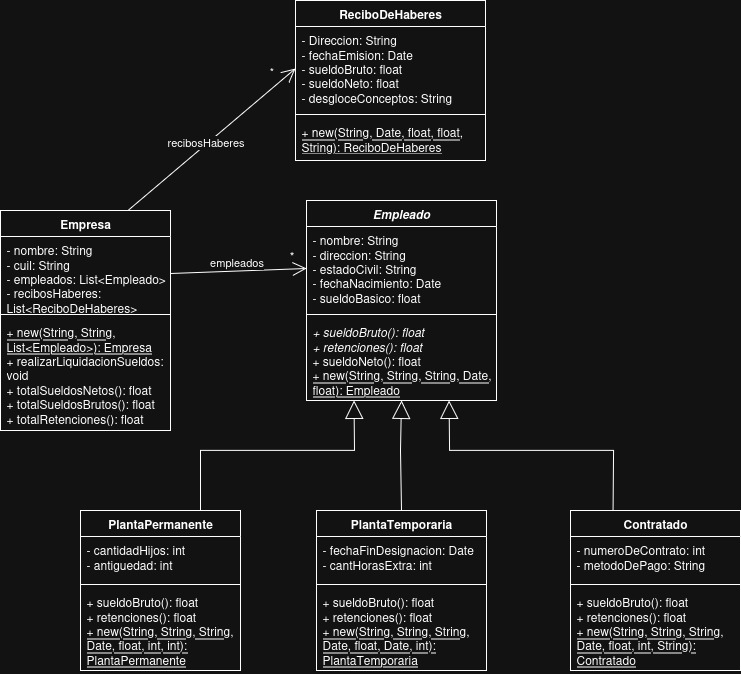
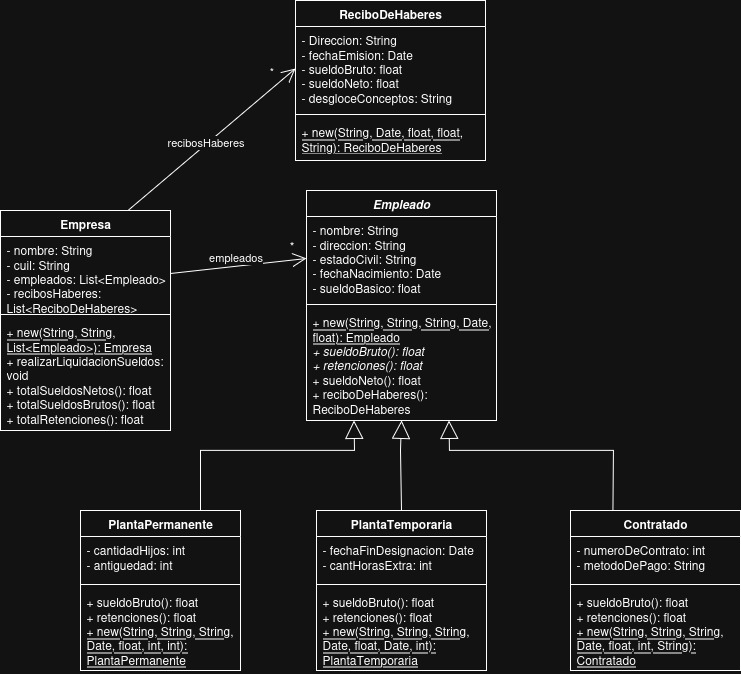
UMLs actualizados y avance en implementación TP 2

Changed region(s): [[0.2483, 0.2804, 0.6518, 0.6543]]

diff --git a/tp2-UML/implementacion-en-Java/src/empleado/Empleado.java b/tp2-UML/implementacion-en-Java/src/empleado/Empleado.java
@@ -1,5 +1,32 @@
 package empleado;
 
-public class Empleado {
+import java.util.Date;
+import empresa.ReciboDeHaberes;
+
+abstract public class Empleado {
+	private String nombre;
+	private String direccion;
+	private String estadoCivil;
+	private Date fechaNacimiento;
+	private float sueldoBasico;
 	
+	public Empleado(String nombre, String direccion, String estadoCivil, Date fechaNacimiento, float sueldoBasico) {
+		this.nombre = nombre;
+		this.direccion = direccion;
+		this.estadoCivil = estadoCivil;
+		this.fechaNacimiento = fechaNacimiento;
+		this.sueldoBasico = sueldoBasico;
+	}
+	
+	abstract public float sueldoBruto();
+	abstract public float retenciones();
+	
+	public float sueldoNeto() { //template method
+		return this.sueldoBruto() - this.retenciones();
+	}
+	
+	public ReciboDeHaberes reciboDeHaberes() {
+		return new ReciboDeHaberes(direccion, new Date(), this.sueldoBruto(), this.sueldoNeto(), "a");
+	}
+	//TODO: Pasarle el verdadero desgloce de conceptos en vez de un string random
 }

diff --git a/tp2-UML/implementacion-en-Java/src/empresa/Empresa.java b/tp2-UML/implementacion-en-Java/src/empresa/Empresa.java
@@ -2,6 +2,7 @@ package empresa;
 
 import empleado.*;
 import java.util.List;
+import java.util.stream.Collectors;
 import java.util.ArrayList;
 
 public class Empresa {
@@ -22,14 +23,20 @@ public class Empresa {
 	}
 	
 	public float totalSueldosNetos() {
-		return 1;
+		return empleados.stream().
+				map((empleado) -> empleado.sueldoNeto()).
+				reduce(0f, (a,b) -> Float.sum(a, b));
 	}
 	
 	public float totalSueldosBrutos() {
-		return 1;
+		return empleados.stream().
+				map((empleado) -> empleado.sueldoBruto()).
+				reduce(0f, (a,b) -> Float.sum(a, b));
 	}
 	
 	public float retenciones() {
-		return 1;
+		return empleados.stream().
+				map((empleado) -> empleado.retenciones()).
+				reduce(0f, (a,b) -> Float.sum(a, b));
 	}
 }

diff --git a/tp2-UML/implementacion-en-Java/src/empleado/PlantaTemporaria.java b/tp2-UML/implementacion-en-Java/src/empleado/PlantaTemporaria.java
@@ -1,0 +1,29 @@
+package empleado;
+
+import java.util.Date;
+
+public class PlantaTemporaria extends Empleado {
+	
+	private Date fechaFinDesignacion;
+	private int cantHorasExtras;
+	
+	public PlantaTemporaria(String nombre, String direccion, String estadoCivil, Date fechaNacimiento, float sueldoBasico,
+			Date fechaFinDesignacion, int cantHorasExtras) {
+		super(nombre, direccion, estadoCivil, fechaNacimiento, sueldoBasico);
+		this.fechaFinDesignacion = fechaFinDesignacion;
+		this.cantHorasExtras = cantHorasExtras;
+	}
+
+	@Override
+	public float sueldoBruto() {
+		// TODO Auto-generated method stub
+		return 0;
+	}
+
+	@Override
+	public float retenciones() {
+		// TODO Auto-generated method stub
+		return 0;
+	}
+
+}

diff --git a/tp2-UML/implementacion-en-Java/src/empleado/Contratado.java b/tp2-UML/implementacion-en-Java/src/empleado/Contratado.java
@@ -1,0 +1,29 @@
+package empleado;
+
+import java.util.Date;
+
+public class Contratado extends Empleado {
+	
+	private int numeroDeContrato;
+	private String metodoDePago;
+	
+	public Contratado(String nombre, String direccion, String estadoCivil, Date fechaNacimiento, float sueldoBasico,
+			int numeroDeContrato, String metodoDePago) {
+		super(nombre, direccion, estadoCivil, fechaNacimiento, sueldoBasico);
+		this.numeroDeContrato = numeroDeContrato;
+		this.metodoDePago = metodoDePago;
+	}
+
+	@Override
+	public float sueldoBruto() {
+		// TODO Auto-generated method stub
+		return 0;
+	}
+
+	@Override
+	public float retenciones() {
+		// TODO Auto-generated method stub
+		return 0;
+	}
+
+}

diff --git a/tp2-UML/implementacion-en-Java/src/empleado/PlantaPermanente.java b/tp2-UML/implementacion-en-Java/src/empleado/PlantaPermanente.java
@@ -1,0 +1,29 @@
+package empleado;
+
+import java.util.Date;
+
+public class PlantaPermanente extends Empleado {
+	
+	private int cantidadHijos;
+	private int antiguedad;
+	
+	public PlantaPermanente(String nombre, String direccion, String estadoCivil, Date fechaNacimiento, float sueldoBasico,
+			int cantidadHijos, int Antiguedad) {
+		super(nombre, direccion, estadoCivil, fechaNacimiento, sueldoBasico);
+		this.cantidadHijos = cantidadHijos;
+		this.antiguedad = antiguedad;
+	}
+
+	@Override
+	public float sueldoBruto() {
+		// TODO Auto-generated method stub
+		return 0;
+	}
+
+	@Override
+	public float retenciones() {
+		// TODO Auto-generated method stub
+		return 0;
+	}
+
+}
